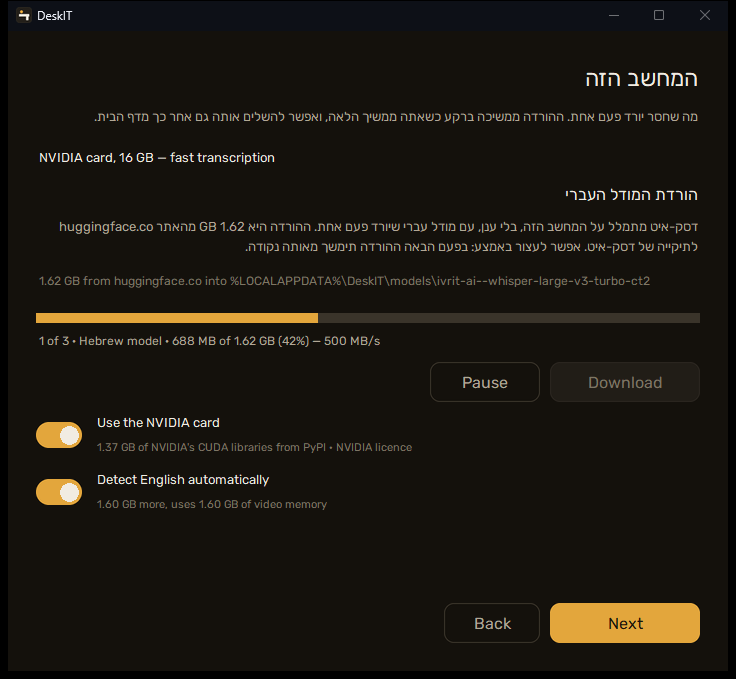
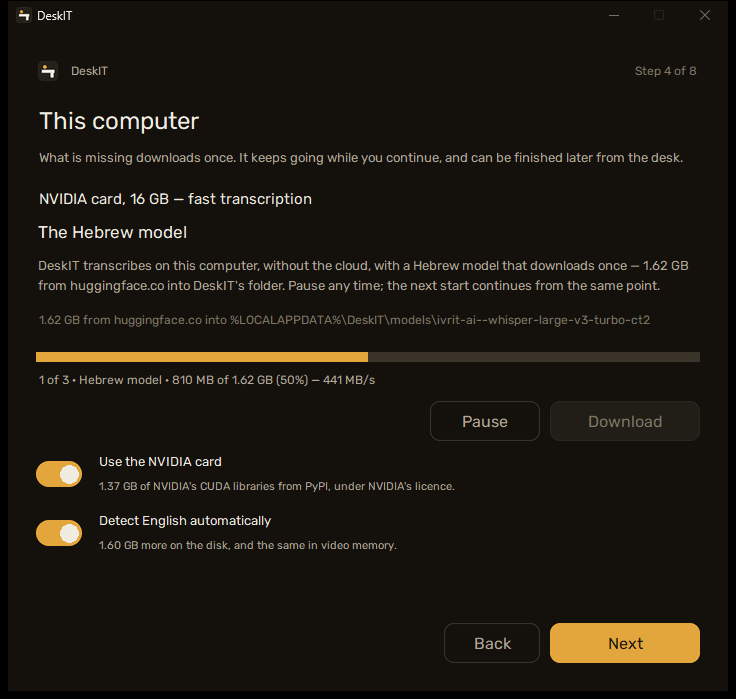
dev/shot_wizard.py photographs every wizard page on the hidden desktop, and the guide's seven wizard pictures are the new pages
Builds firstrun.Wizard against a scratch DESKIT_HOME with fake steps
and a stubbed session, shows each page — the account page before and
after a sign-in, the microphone page with its help up, the sentence
page with a sample, the keys page listening — and prints the window
with shot_installer's PrintWindow. --hidden wraps it in
tests_quiet.run_hidden so the owner's screen never sees a window;
--guide copies the seven the guide links (docs/img/02-*.png), which
were the Hebrew pages until tonight.

diff --git a/dev/shot_wizard.py b/dev/shot_wizard.py
@@ -1,0 +1,171 @@
+"""Photograph every page of the first-run wizard without running it.
+
+Runs ON the hidden desktop (tests_quiet.run_hidden wraps it, and so does
+the driver below): builds firstrun.Wizard in this process against a
+scratch DESKIT_HOME, shows each page in turn — the account page both
+before and after a sign-in, the microphone page with its help shown,
+the sentence page with a sample, the keys page listening for a key —
+and prints the window to a PNG with the same PrintWindow the installer's
+picture is taken with (shot_installer._shot). Nothing is downloaded,
+written to a real home or signed in: the steps are fakes, the session
+is a stub.
+
+    python dev/shot_wizard.py --out <folder>          (on the hidden desktop)
+    python dev/shot_wizard.py --out <folder> --hidden (wraps itself there)
+
+The owner's screen never sees a window (memory: hidden desktop, every
+driver and screenshot).
+"""
+from __future__ import annotations
+
+import argparse
+import ctypes
+import dataclasses
+import os
+import subprocess
+import sys
+import tempfile
+import time
+from pathlib import Path
+
+HERE = Path(__file__).resolve().parent
+ROOT = HERE.parent
+sys.path.insert(0, str(ROOT))
+sys.path.insert(0, str(HERE))
+
+
+def _hidden(out: Path) -> int:
+    """Run this script on the hidden desktop and wait for it."""
+    import tests_quiet
+    line = f'"{sys.executable}" "{Path(__file__)}" --out "{out}"'
+    return tests_quiet.run_hidden(line, ROOT)
+
+
+def _pages(out: Path) -> list[Path]:
+    home = Path(tempfile.mkdtemp(prefix="deskit-wizard-shots-"))
+    os.environ["DESKIT_HOME"] = str(home)
+    import paths
+    paths.SETTINGS_FILE = home / "settings.toml"
+    paths.STATE_FILE = home / "state.json"
+    paths.CONSENT_FILE = home / "consent.json"
+    paths.SECRETS_DIR = home / "secrets"
+    paths.SYNC_DIR = home / "sync"
+    import config as config_mod
+    import sb
+    import steps
+    import firstrun
+    from shot_installer import _shot
+
+    sb.REQUIRED = False
+    cfg = dataclasses.replace(config_mod.load(ROOT / "defaults.toml"),
+                              setup=config_mod.SetupConfig(done=False))
+
+    class Thing:
+        def __init__(self, name, size):
+            self.name, self.bytes, self.repo = name, size, name
+
+    def stepper(kind, thing):
+        def work(progress, cancel, stage):
+            for i in range(8):
+                progress((i + 1) * thing.bytes // 8, thing.bytes)
+                time.sleep(0.25)
+        names = {"model": "Hebrew model", "pack": "NVIDIA libraries", "detector": "English detector"}
+        where = {"model": "huggingface.co into %LOCALAPPDATA%\\DeskIT\\models\\ivrit-ai--whisper-large-v3-turbo-ct2",
+                 "pack": "pypi.org into %LOCALAPPDATA%\\DeskIT\\packs\\gpu",
+                 "detector": "huggingface.co into %LOCALAPPDATA%\\DeskIT\\models\\Systran--faster-whisper-large-v3"}
+        return steps.Step(title=kind, body=kind,
+                          size_line=f"{steps.human(thing.bytes)} from {where[kind]}",
+                          total=thing.bytes, work=work, name=names.get(kind, kind),
+                          links=[("NVIDIA licence", "https://example.invalid")] if kind == "pack" else [])
+
+    offers = {"portable": False, "model": Thing("m", 1_620_000_000),
+              "pack": Thing("gpu", 1_370_000_000), "detector": Thing("e", 1_600_000_000),
+              "tier": "gpu"}
+    facts = {"tier": "gpu", "vram_mb": 16311, "cuda_devices": 1, "driver_ok": True}
+
+    real_user = sb.user
+    sb.user = lambda: None
+    w = firstrun.Wizard(cfg, facts=facts, offers=offers, stepper=stepper)
+    hwnd = ctypes.windll.user32.GetParent(int(w.root.winfo_id()))
+    shots: list[Path] = []
+
+    def settle(seconds: float = 0.6) -> None:
+        deadline = time.monotonic() + seconds
+        while time.monotonic() < deadline:
+            w.root.update()
+            time.sleep(0.02)
+
+    def shot(name: str) -> None:
+        settle()
+        path = out / f"{name}.png"
+        _shot(hwnd, path)
+        shots.append(path)
+        print(f"wrote {path}")
+
+    def show(page: str) -> None:
+        w.page = firstrun.PAGES.index(page)
+        w._show_page()
+
+    try:
+        show("welcome"); shot("01-welcome")
+        show("account"); shot("02-account")
+        sb.user = lambda: {"email": "person@example.com", "id": "x", "is_anonymous": False}
+        show("account"); shot("02-account-signed-in")
+        sb.user = lambda: None
+        show("mic"); shot("03-microphone")
+        w._warn_silent(); shot("03-microphone-help")
+        show("computer"); shot("04-computer")
+        w._download(); settle(0.3); shot("04-computer-downloading")
+        settle(7.0)                                # the three fakes land
+        show("say"); shot("05-say")
+        w._on_result(firstrun.Heard(text="בדקתי את המיקרופון ושמעתי את עצמי בבירור",
+                                    load_s=4.2, decode_s=0.8))
+        shot("05-say-heard")
+        show("keys"); shot("06-keys")
+        w._rebind("punctuate_hotkey"); shot("06-keys-listening")
+        w._captured(None)
+        show("extras"); shot("07-extras")
+        show("done"); shot("08-ready")
+    finally:
+        sb.user = real_user
+        try:
+            w._close()
+        except Exception:                                    # noqa: BLE001
+            pass
+    return shots
+
+
+#: The guide's seven wizard pictures (docs/README.md, chapter 2), by the
+#: name each page is taken under here.
+GUIDE = {"02-welcome": "01-welcome", "02-microphone": "03-microphone",
+         "02-computer": "04-computer-downloading", "02-say": "05-say-heard",
+         "02-keys": "06-keys", "02-extras": "07-extras", "02-done": "08-ready"}
+
+
+def _guide(out: Path) -> None:
+    import shutil
+    for name, taken in GUIDE.items():
+        shutil.copyfile(out / f"{taken}.png", ROOT / "docs" / "img" / f"{name}.png")
+        print(f"guide: docs/img/{name}.png")
+
+
+def main(argv: list[str]) -> int:
+    ap = argparse.ArgumentParser()
+    ap.add_argument("--out", type=Path, required=True)
+    ap.add_argument("--hidden", action="store_true",
+                    help="run on the hidden desktop (from the owner's shell)")
+    ap.add_argument("--guide", action="store_true",
+                    help="also refresh the guide's seven pictures in docs/img")
+    a = ap.parse_args(argv)
+    a.out.mkdir(parents=True, exist_ok=True)
+    if a.hidden:
+        code = _hidden(a.out.resolve())
+        if code == 0 and a.guide:
+            _guide(a.out.resolve())
+        return code
+    shots = _pages(a.out)
+    return 0 if shots else 1
+
+
+if __name__ == "__main__":
+    sys.exit(main(sys.argv[1:]))
